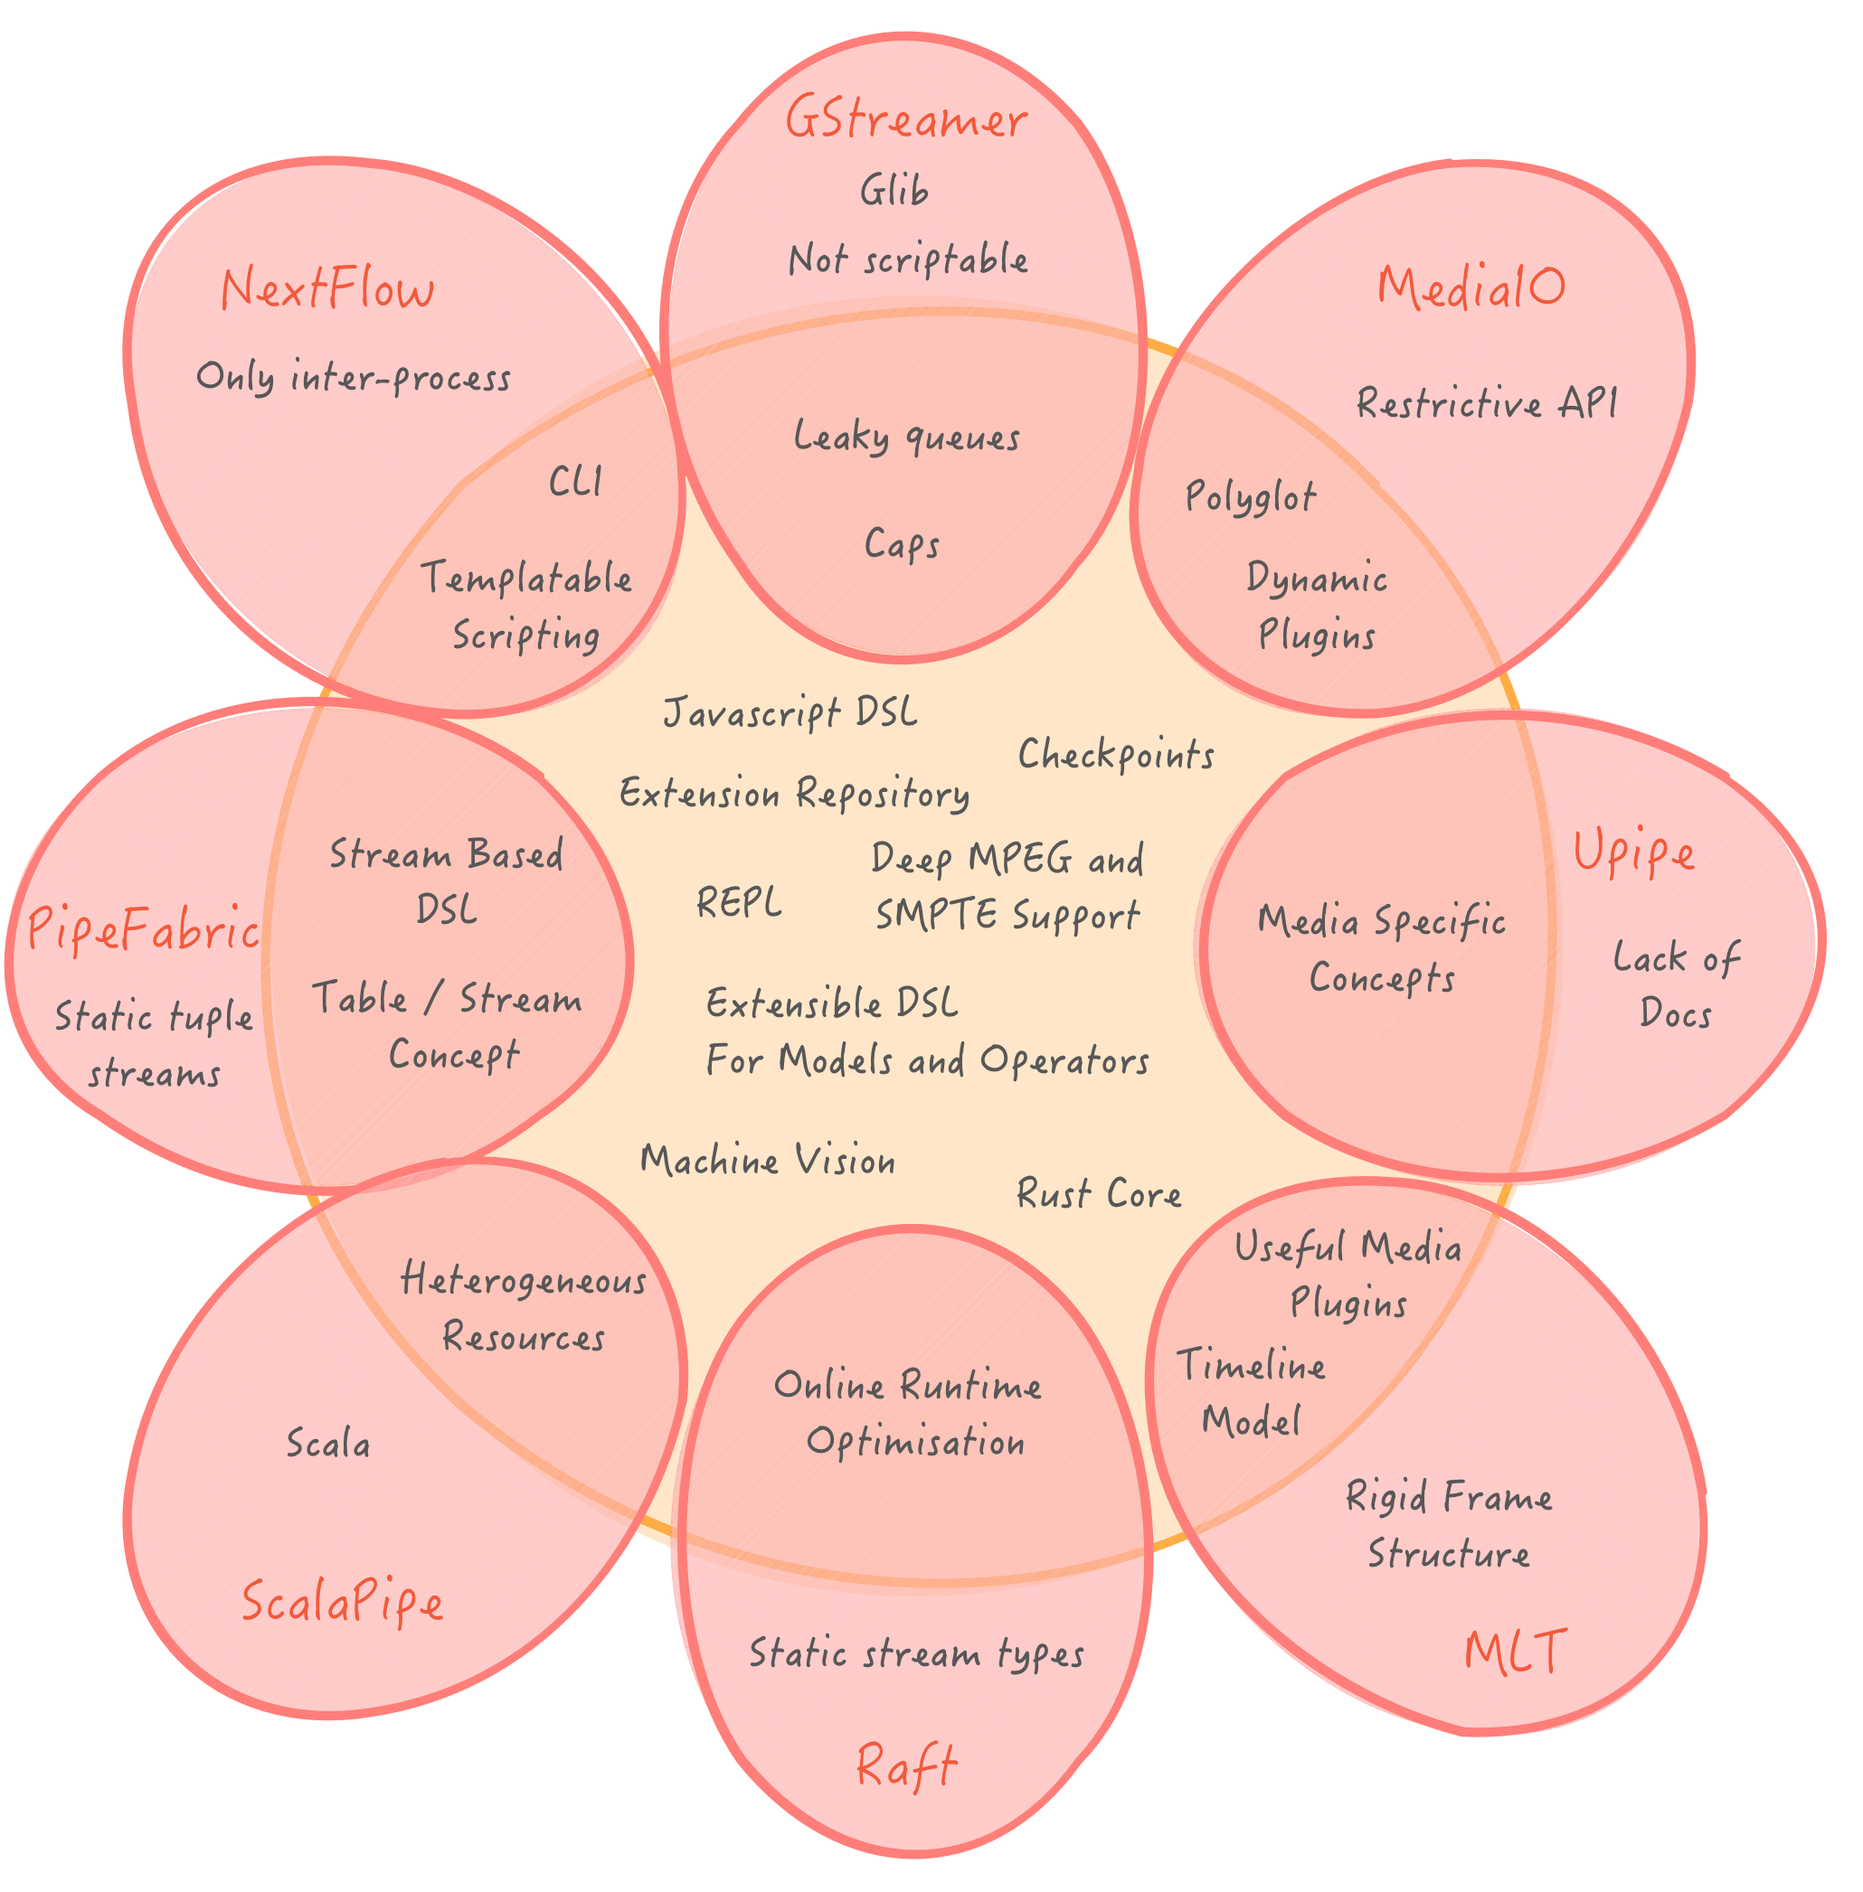
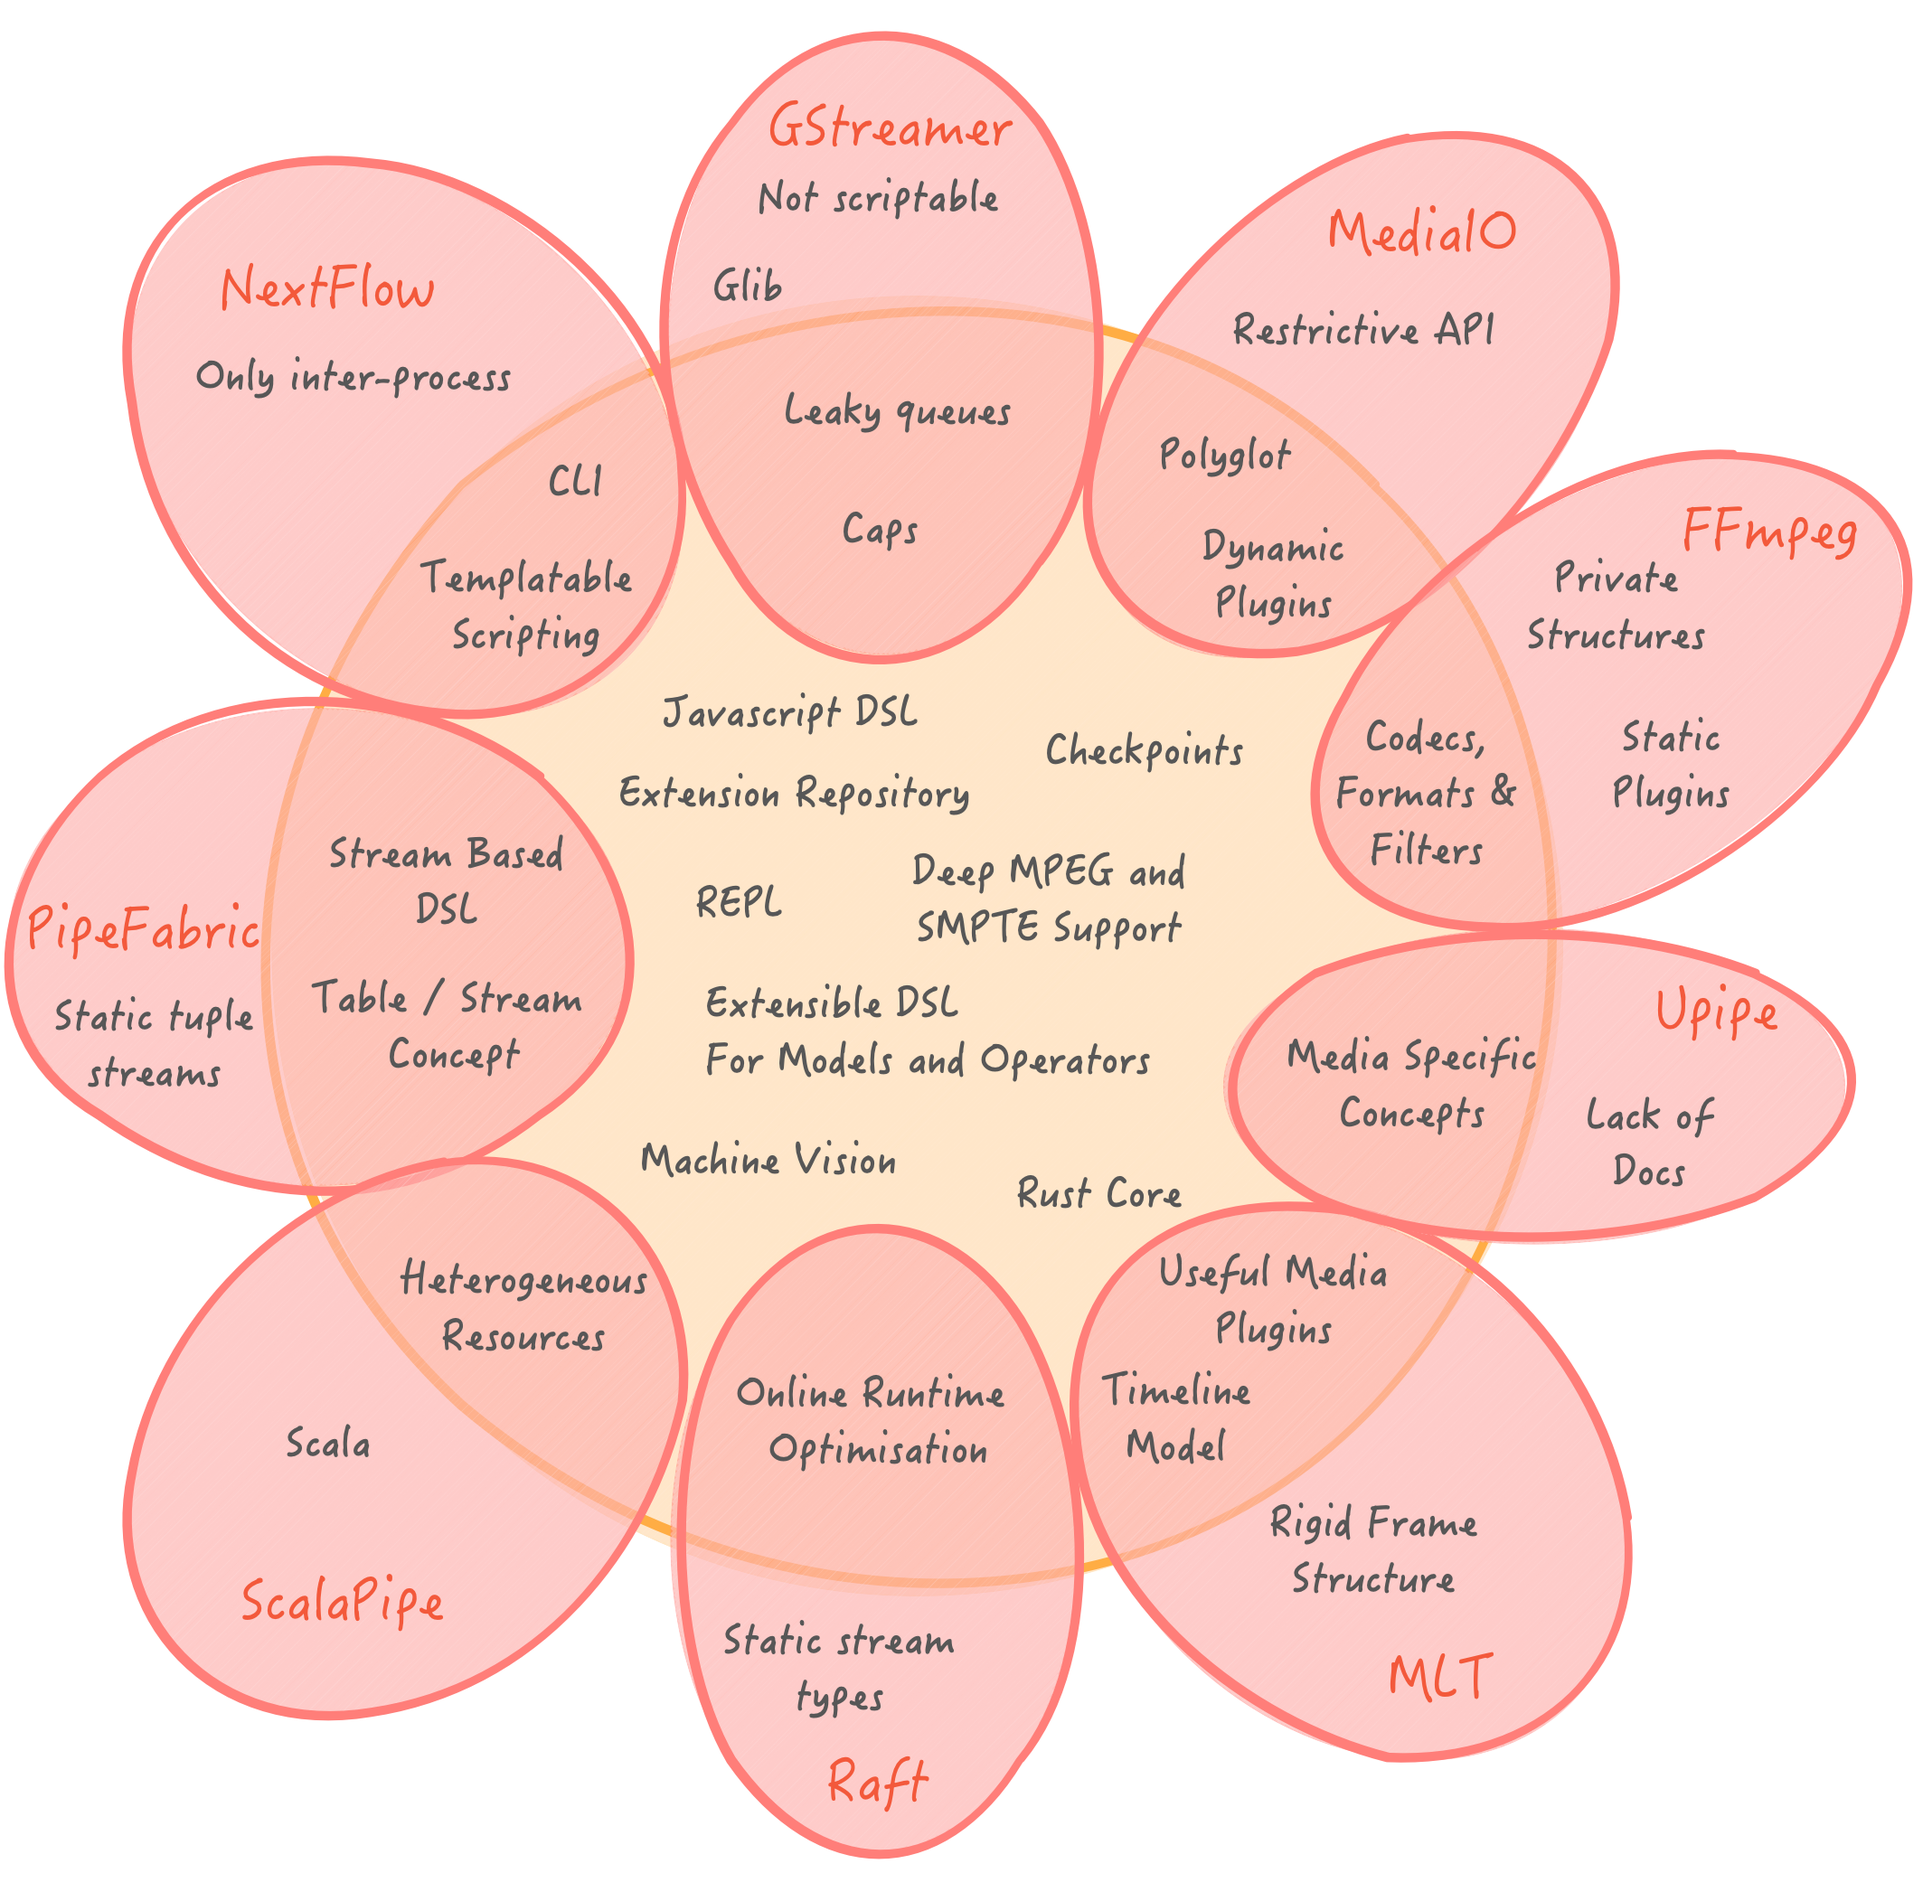
latest

diff --git a/tech-bookmarks.md b/tech-bookmarks.md
@@ -35,6 +35,7 @@
 	- https://github.com/polyfractal/Turbine
 	- https://github.com/sruggier/rust-disruptor
 - http://plugins.jetbrains.com/plugin/7438
+- https://neon-bindings.com
 
 ## WASM
 - http://teavm.org
@@ -69,6 +70,7 @@
 - https://github.com/Haivision/srt
 - http://rsocket.io
 - https://github.com/linux-china/awesome-rsocket/blob/master/README.md
+- https://grpc.io
 
 ## UI
 - https://hackernoon.com/zero-to-live-with-vue-how-we-built-chatwoot-c7304e596d62
@@ -89,6 +91,7 @@
 - https://github.com/mahyarnajibi/SNIPER
 - https://github.com/jantic/DeOldify
 - https://devblogs.nvidia.com/accelerate-video-analytics-deepstream-2/
+- https://github.com/bbc/rd-apmm-python-lib-mediagrains
 
 ## Media Processing
 - http://openimaj.org/openimaj-streams/index.html
@@ -96,6 +99,11 @@
 - https://tsduck.io
 - https://github.com/videojs/mux.js
 - http://thumb.co.il
+- https://github.com/kuu/Kontainer
+- https://github.com/epiclabs-io/inspector.js
+- https://github.com/madebyhiro/codem-isoboxer
+- https://github.com/sannies/mp4parser
+- https://github.com/sannies/isoviewer
 
 ## Browser AV
 - https://howlerjs.com

diff --git a/stream-processing/stream-processing-technology-review.md b/stream-processing/stream-processing-technology-review.md
@@ -96,6 +96,8 @@
 
 \+ mature
 
+\+ stream compatibility concepts via 'caps'
+
 \- too much locking
 
 \- complex
@@ -163,3 +165,14 @@
 \- no media concepts e.g. live, frames
 
 \- fixed tuples for stream elements
+
+### FFmpeg
+
+\+ wide format, codec and filter support
+
+\+ mature
+
+\- no dynamic plugin concepts
+
+\- specific format and codec structures are private
+ 
